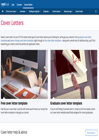
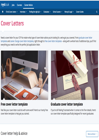
Fix title and summary on a couple of broken resources (95/112) (#102)
* Fix title and summary on a couple of broken resources (95/112)

* add resources to rotator and add images

diff --git a/app/data/resources.js b/app/data/resources.js
@@ -944,6 +944,16 @@ const resourceList = [
     sector: { },
   },
   {
+    resourceId: 'octo095',
+    title: 'Reed: interviews',
+    url: 'https://www.reed.co.uk/career-advice/interview-techniques/preparing-for-a-job-interview/',
+    summary: 'Advice on preparing for interviews, including sample questions, explanation of interview types and tips on what to wear.',
+    journalMessage: 'There\'s useful practical advice here if you\'re getting ready for an interview:\n\n https://www.reed.co.uk/career-advice/interview-techniques/preparing-for-a-job-interview/\n\nIt includes example questions and help with interviews for different kinds of role.',
+    category: ['interviews', 'research', 'Preparing for work', 'CVs, cover letters and interviews'],
+    groups: ['intensive work search'],
+    sector: { },
+  },
+  {
     resourceId: 'octo096',
     title: 'NHS: Healthy Start',
     url: 'https://www.healthystart.nhs.uk',
@@ -1079,6 +1089,16 @@ const resourceList = [
     url: 'https://www.reed.co.uk/career-advice/four-ways-to-follow-up-after-an-application/',
     summary: 'Advice on following up on an interview or job application.',
     journalMessage: 'There\'s useful practical advice here on following up an interview or job application:\n\n https://www.reed.co.uk/career-advice/four-ways-to-follow-up-after-an-application/\n\nYou should always try to follow up if you didn\'t get a job - it helps for the next time.',
+    category: ['interviews', 'research', 'cover letters', 'Preparing for work', 'CVs, cover letters and interviews'],
+    groups: ['intensive work search'],
+    sector: { },
+  },
+  {
+    resourceId: 'octo112',
+    title: 'Reed: cover letters',
+    url: 'https://www.reed.co.uk/career-advice/cover-letters/',
+    summary: 'Advice on cover letters. Includes templates, separate advice for graduates, and tips on personal statements.',
+    journalMessage: 'There\'s useful practical advice here on cover letters:\n\nhttps://www.reed.co.uk/career-advice/cover-letters/\n\nIt includes a template you could use.',
     category: ['interviews', 'research', 'cover letters', 'Preparing for work', 'CVs, cover letters and interviews'],
     groups: ['intensive work search'],
     sector: { },

diff --git a/app/data/featured.js b/app/data/featured.js
@@ -34,6 +34,20 @@ const featuredList = {
     resourceSummary: 'Advice on following up on an interview or job application.',
   },
 
+  featured06: {
+    heading: 'Featured resource',
+    resourceId: 'octo095',
+    resourceLinkText: 'Reed: interviews',
+    resourceSummary: 'Advice on preparing for interviews, including sample questions, explanation of interview types and tips on what to wear.',
+  },
+
+  featured07: {
+    heading: 'Featured resource',
+    resourceId: 'octo112',
+    resourceLinkText: 'Reed: cover letters',
+    resourceSummary: 'Advice on cover letters. Includes templates, separate advice for graduates, and tips on personal statements.',
+  },
+
 };
 
 module.exports = featuredList;

diff --git a/app/data/rotation.js b/app/data/rotation.js
@@ -5,6 +5,7 @@ const resources = [
   'featured04',
   'featured05',
   'featured06',
+  'featured07',
 ];
 
 const startRotation = new Date('2018-03-06T00:00:00');
